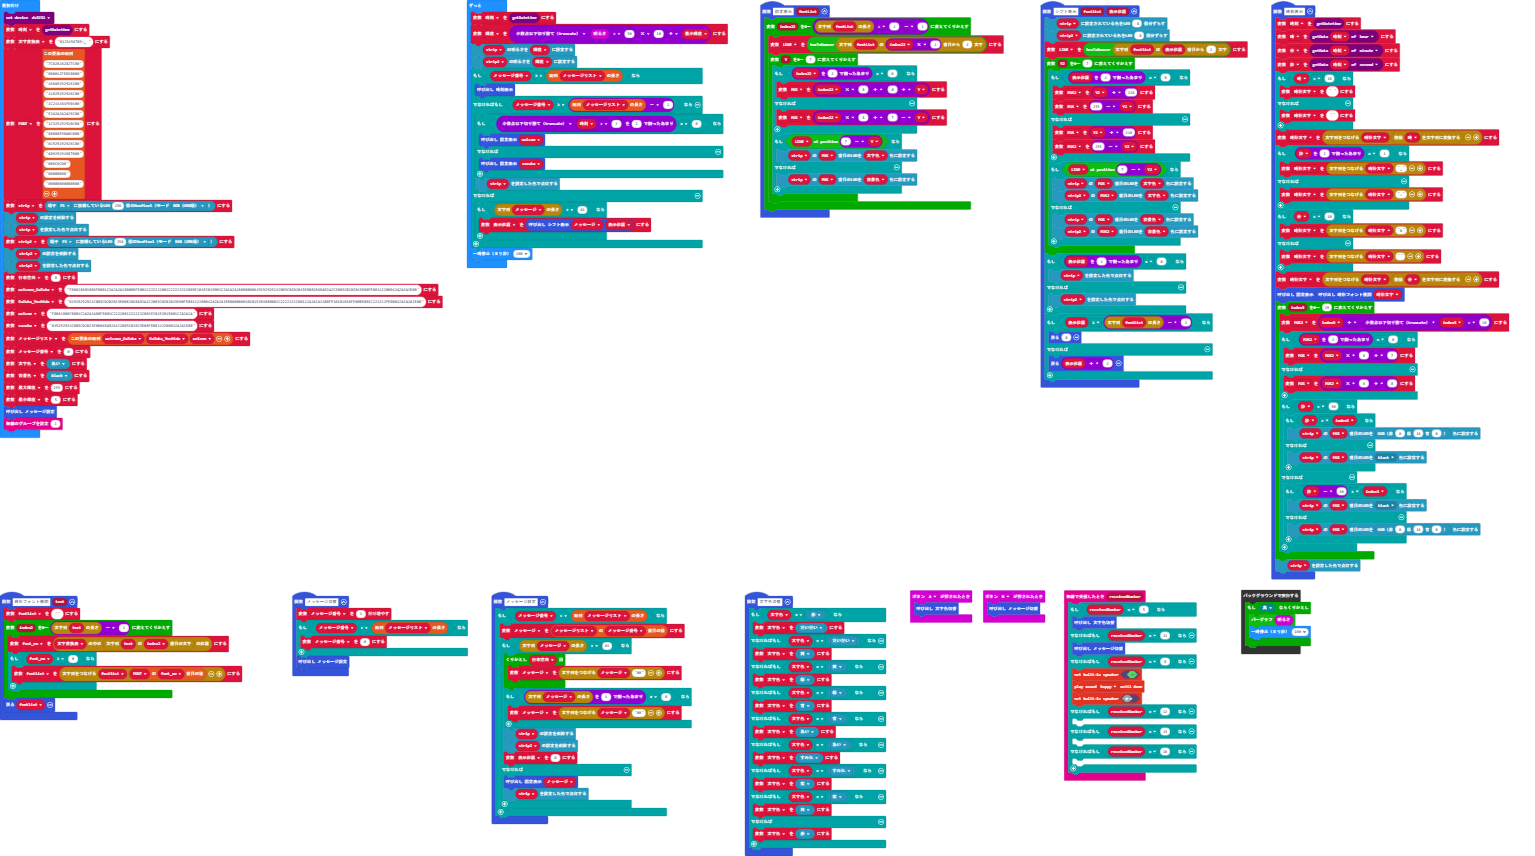
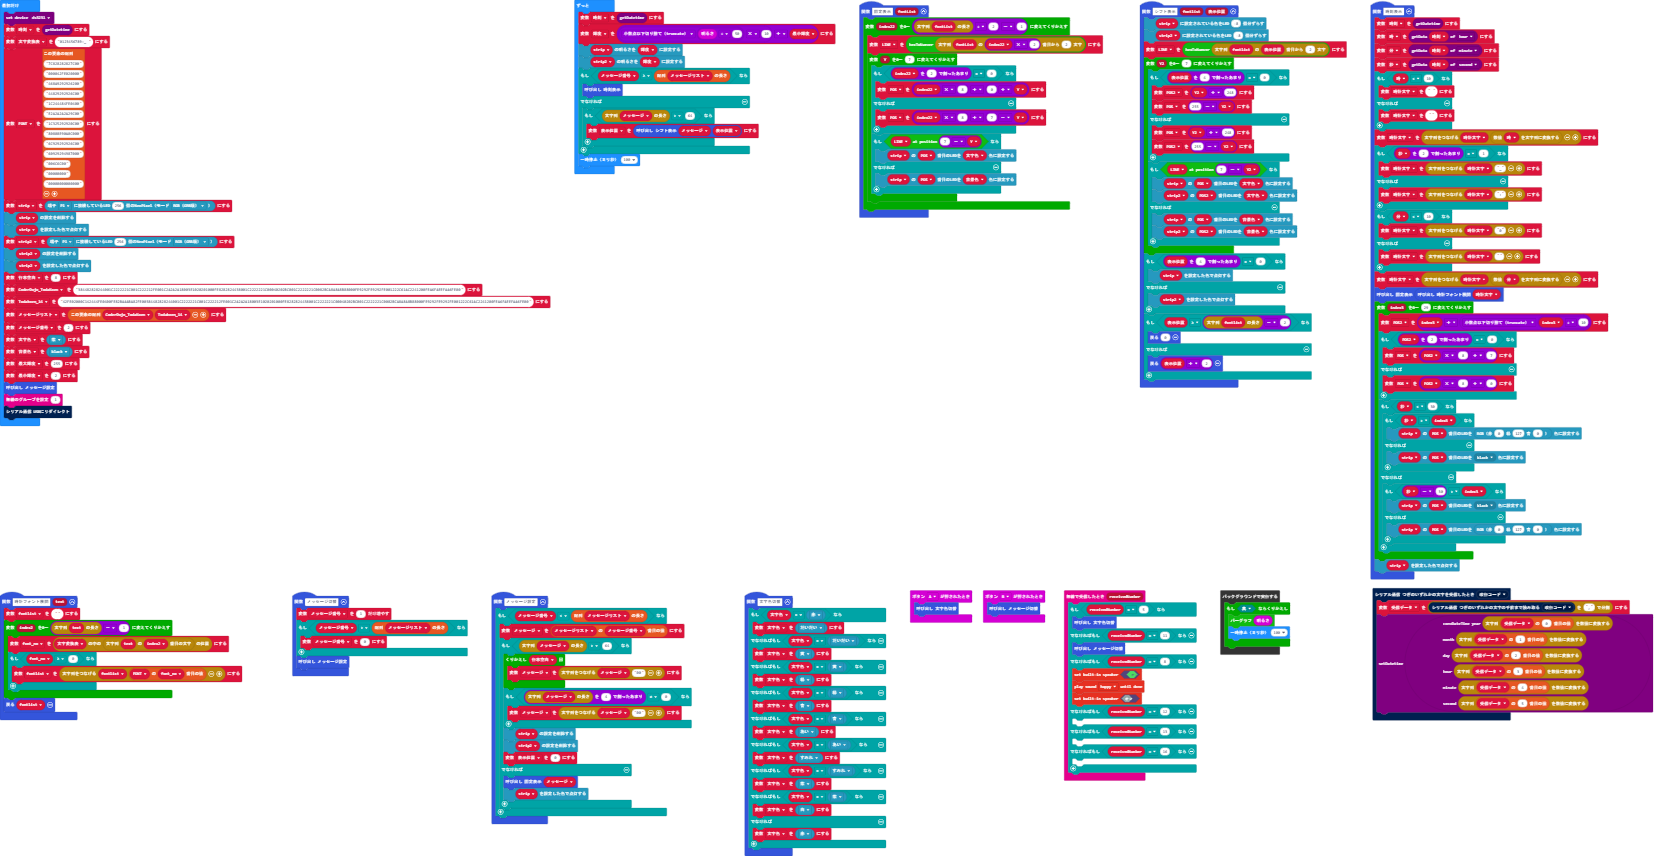
Update pxt.json, main.blocks, main.ts

Changed region(s): [[0.0, 0.0, 1.0, 1.0], [0.0, 0.0, 0.1837, 0.5164], [0.0, 0.8201, 0.0612, 0.8505]]

diff --git a/main.ts b/main.ts
@@ -123,6 +123,17 @@ function 文字色切替 () {
         文字色 = neopixel.colors(NeoPixelColors.Red)
     }
 }
+serial.onDataReceived(serial.delimiters(Delimiters.NewLine), function () {
+    受信データ = serial.readUntil(serial.delimiters(Delimiters.NewLine)).split(",")
+    rtc.setDatetime(rtc.convDateTime(
+    parseFloat(受信データ[0]),
+    parseFloat(受信データ[1]),
+    parseFloat(受信データ[2]),
+    parseFloat(受信データ[3]),
+    parseFloat(受信データ[4]),
+    parseFloat(受信データ[5])
+    ))
+})
 input.onButtonPressed(Button.B, function () {
     メッセージ切替()
 })
@@ -158,7 +169,7 @@ function 時刻表示 () {
         }
         if (秒 < 30) {
             if (秒 > index3) {
-                strip.setPixelColor(POS, neopixel.rgb(0, 16, 0))
+                strip.setPixelColor(POS, neopixel.rgb(0, 127, 0))
             } else {
                 strip.setPixelColor(POS, neopixel.colors(NeoPixelColors.Black))
             }
@@ -166,7 +177,7 @@ function 時刻表示 () {
             if (秒 - 30 > index3) {
                 strip.setPixelColor(POS, neopixel.colors(NeoPixelColors.Black))
             } else {
-                strip.setPixelColor(POS, neopixel.rgb(0, 16, 0))
+                strip.setPixelColor(POS, neopixel.rgb(0, 127, 0))
             }
         }
     }
@@ -177,6 +188,7 @@ let 時計文字 = ""
 let 秒 = 0
 let 分 = 0
 let 時 = 0
+let 受信データ: string[] = []
 let 表示位置 = 0
 let メッセージ = ""
 let POS2 = 0
@@ -205,18 +217,17 @@ strip2 = neopixel.create(DigitalPin.P1, 256, NeoPixelMode.RGB)
 strip2.clear()
 strip2.show()
 行末空白 = 8
[4 lines of base64/hex data omitted]
-メッセージリスト = [welcome_SuZuka, SuZuka_YosHida, welcom]
-メッセージ番号 = 0
-文字色 = neopixel.colors(NeoPixelColors.Indigo)
[2 lines of base64/hex data omitted]
+メッセージリスト = [CoderDojo_TodaKoen, Todakoen_14]
+メッセージ番号 = 2
+文字色 = neopixel.colors(NeoPixelColors.Purple)
 背景色 = neopixel.colors(NeoPixelColors.Black)
 let 最大輝度 = 255
-let 最小輝度 = 5
+let 最小輝度 = 2
 メッセージ設定()
 radio.setGroup(1)
+serial.redirectToUSB()
 basic.forever(function () {
     時刻 = rtc.getDatetime()
     輝度 = Math.trunc(input.lightLevel() / 50) * 10 + 最小輝度
@@ -224,13 +235,6 @@ basic.forever(function () {
     strip2.setBrightness(輝度)
     if (メッセージ番号 >= メッセージリスト.length) {
         時刻表示()
-    } else if (メッセージ番号 >= メッセージリスト.length - 1) {
-        if (Math.trunc(時刻 / 2) % 2 == 0) {
-            固定表示(welcom)
-        } else {
-            固定表示(suzuka)
-        }
-        strip.show()
     } else {
         if (メッセージ.length > 64) {
             表示位置 = シフト表示(メッセージ, 表示位置)
